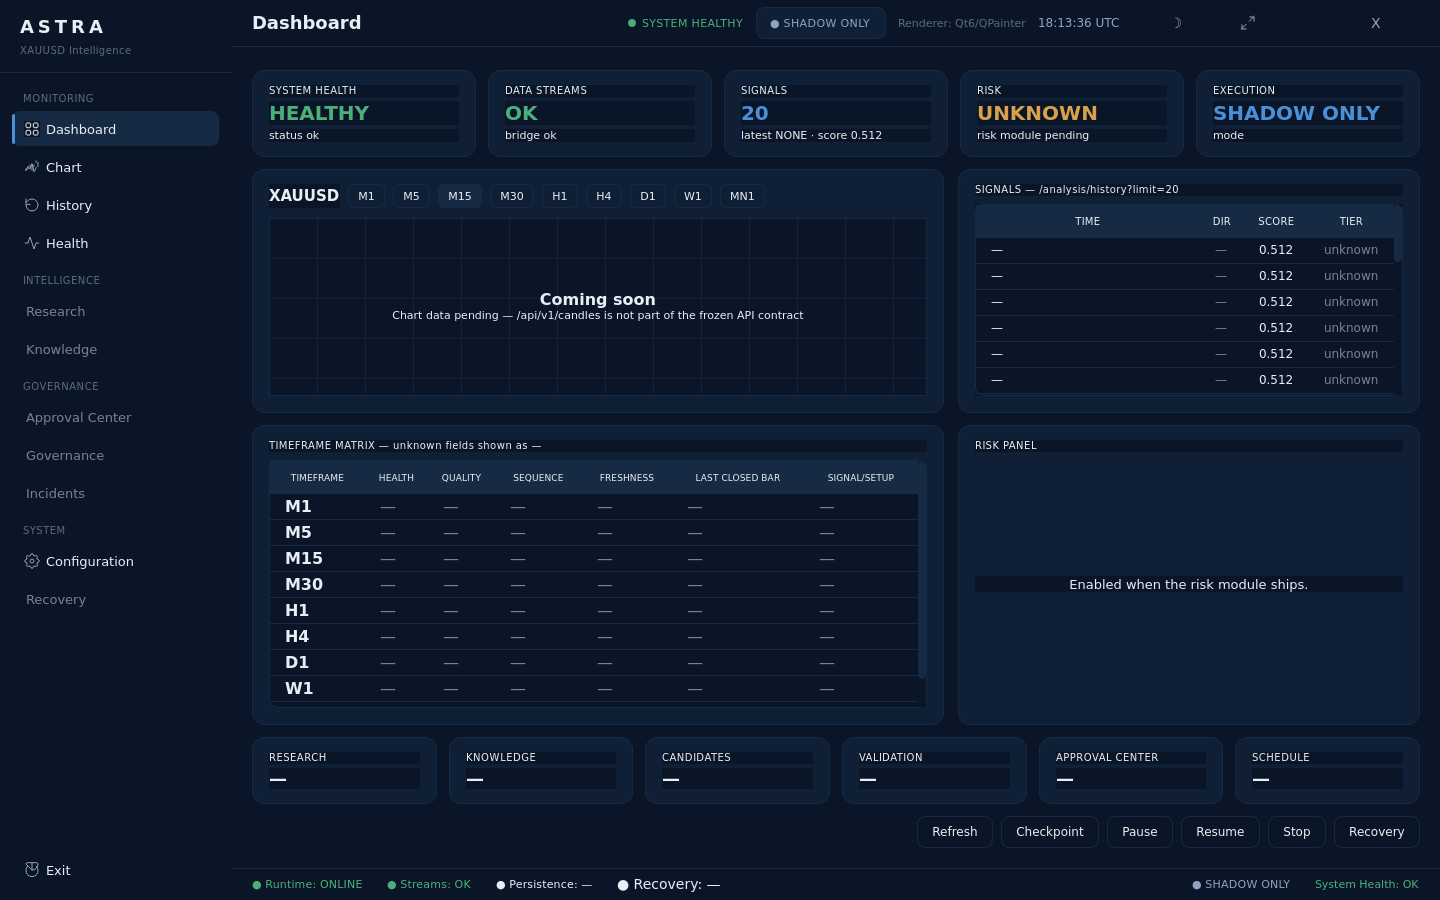
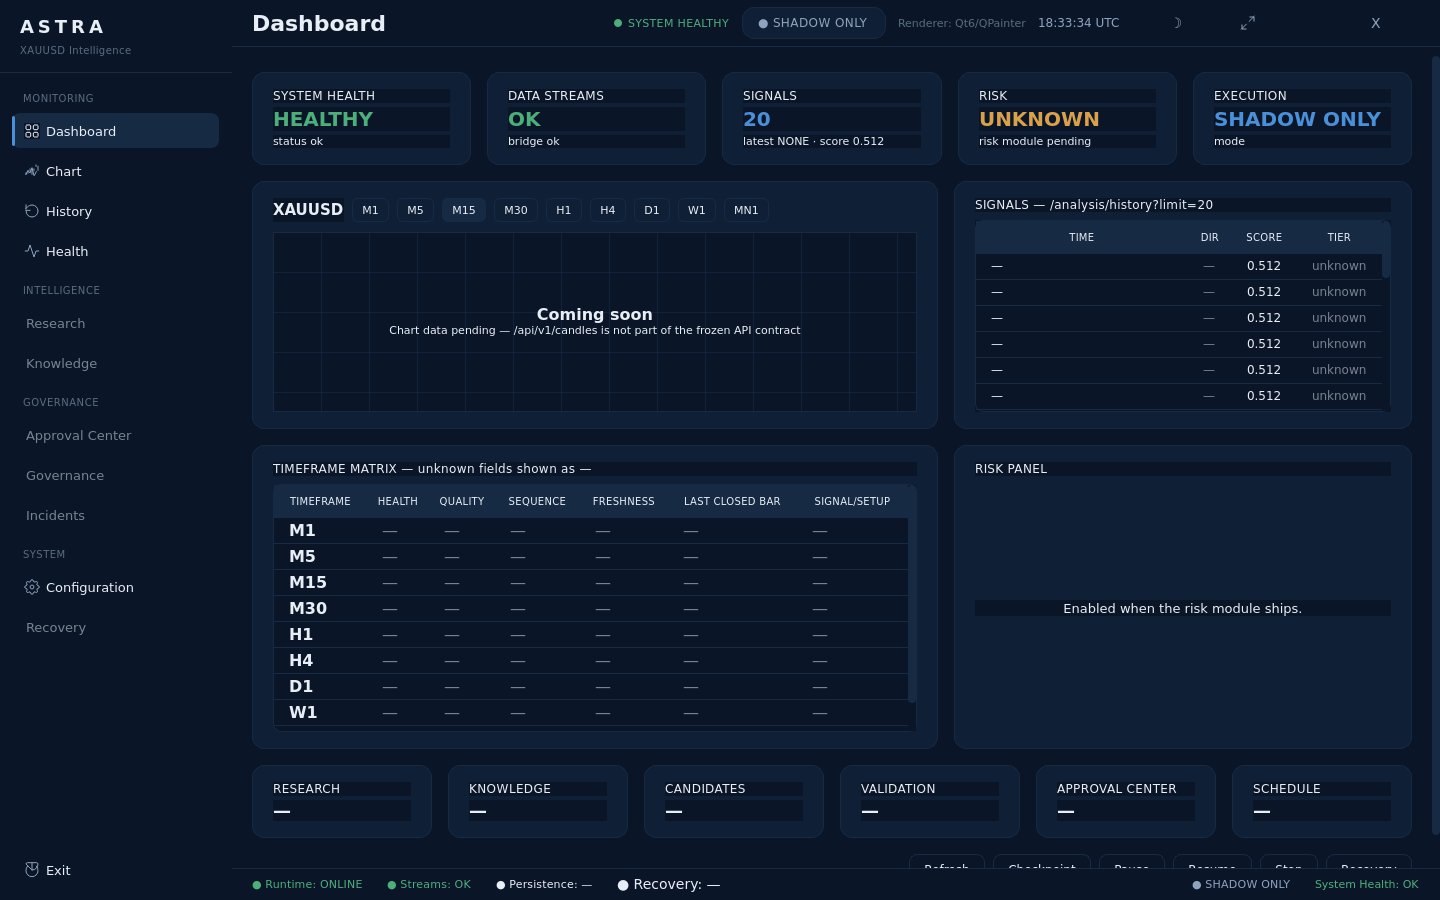
polish(qt): typography, spacing, hierarchy
Tighten KPI card caption (10px/0.08em -> 12px/0.05em), timeframe-matrix
header (9px -> 10px), page title (18px -> 22px), SHADOW ONLY chip
(11px -> 12px). Standardise card padding (20/16) and dashboard row gaps
(16px); nav item gap 2px -> 4px; chip/badge radius 8px -> 12px.
No hex, layout, feature or behaviour changes.

diff --git a/frontend/qt/src/pages/DashboardPage.cpp b/frontend/qt/src/pages/DashboardPage.cpp
@@ -113,7 +113,7 @@ QFrame* DashboardPage::makeCard(QWidget* parent, const QString& title) {
     card->setProperty("astraCard", true);
     card->setFrameStyle(QFrame::NoFrame);
     QVBoxLayout* lay = new QVBoxLayout(card);
-    lay->setContentsMargins(16, 14, 16, 14);
+    lay->setContentsMargins(20, 16, 20, 16);
     lay->setSpacing(4);
 
     QLabel* caption = new QLabel(card);
@@ -221,8 +221,8 @@ void DashboardPage::restyle() {
         if (auto* label = qobject_cast<QLabel*>(w)) {
             if (kind == "cardCaption") {
                 label->setStyleSheet(
-                    QString("QLabel { color: %1; font-size: 10px; font-weight: 500; "
-                            "letter-spacing: 0.08em; }").arg(textMuted.name()));
+                    QString("QLabel { color: %1; font-size: 12px; font-weight: 500; "
+                            "letter-spacing: 0.05em; }").arg(textMuted.name()));
             } else if (kind == "cardSub") {
                 label->setStyleSheet(
                     QString("QLabel { color: %1; font-size: 11px; }").arg(textMuted.name()));
@@ -273,8 +273,8 @@ void DashboardPage::restyle() {
                             "border-radius: 8px; font-size: 12px; }"
                             "QTableWidget::item { border-bottom: 1px solid %2; }"
                             "QHeaderView::section { background: %2; color: %3; border: none; "
-                            "padding: 6px 4px; font-size: 9px; font-weight: 500; "
-                            "letter-spacing: 0.02em; }")
+                            "padding: 6px 4px; font-size: 10px; font-weight: 500; "
+                            "letter-spacing: 0.05em; }")
                         .arg(surface.name(), border.name(), textMuted.name()));
             }
         }
@@ -330,12 +330,12 @@ void DashboardPage::setupLayout() {
     scroll->setWidget(page);
 
     QVBoxLayout* mainLayout = new QVBoxLayout(page);
-    mainLayout->setContentsMargins(20, 14, 20, 14);
-    mainLayout->setSpacing(12);
+    mainLayout->setContentsMargins(20, 16, 20, 16);
+    mainLayout->setSpacing(16);
 
     // ─────────────── ROW 1 — status cards ───────────────
     QHBoxLayout* row1 = new QHBoxLayout();
-    row1->setSpacing(12);
+    row1->setSpacing(16);
 
     QFrame* healthCard = makeCard(page, "SYSTEM HEALTH");
     mHealthValue = makeCardValue(healthCard);
@@ -380,7 +380,7 @@ void DashboardPage::setupLayout() {
 
     // ─────────────── ROW 2 — chart (60%) + signals (40%) ───────────────
     QHBoxLayout* row2 = new QHBoxLayout();
-    row2->setSpacing(14);
+    row2->setSpacing(16);
     row2->setStretch(0, 6);
     row2->setStretch(1, 4);
 
@@ -389,7 +389,7 @@ void DashboardPage::setupLayout() {
     chartCard->setProperty("astraCard", true);
     chartCard->setFrameStyle(QFrame::NoFrame);
     QVBoxLayout* chartLay = new QVBoxLayout(chartCard);
-    chartLay->setContentsMargins(16, 14, 16, 16);
+    chartLay->setContentsMargins(20, 16, 20, 16);
     chartLay->setSpacing(10);
 
     QHBoxLayout* chartHeader = new QHBoxLayout();
@@ -428,7 +428,7 @@ void DashboardPage::setupLayout() {
     histCard->setProperty("astraCard", true);
     histCard->setFrameStyle(QFrame::NoFrame);
     QVBoxLayout* histLay = new QVBoxLayout(histCard);
-    histLay->setContentsMargins(16, 14, 16, 16);
+    histLay->setContentsMargins(20, 16, 20, 16);
     histLay->setSpacing(8);
 
     QLabel* histCaption = new QLabel(histCard);
@@ -466,7 +466,7 @@ void DashboardPage::setupLayout() {
 
     // ─────────────── ROW 3 — timeframe matrix (60%) + risk panel (40%) ───
     QHBoxLayout* row3 = new QHBoxLayout();
-    row3->setSpacing(14);
+    row3->setSpacing(16);
     row3->setStretch(0, 6);
     row3->setStretch(1, 4);
 
@@ -474,7 +474,7 @@ void DashboardPage::setupLayout() {
     matrixCard->setProperty("astraCard", true);
     matrixCard->setFrameStyle(QFrame::NoFrame);
     QVBoxLayout* matrixLay = new QVBoxLayout(matrixCard);
-    matrixLay->setContentsMargins(16, 14, 16, 16);
+    matrixLay->setContentsMargins(20, 16, 20, 16);
     matrixLay->setSpacing(8);
 
     QLabel* matrixCaption = new QLabel(matrixCard);
@@ -570,7 +570,7 @@ void DashboardPage::setupLayout() {
     riskPanel->setProperty("astraCard", true);
     riskPanel->setFrameStyle(QFrame::NoFrame);
     QVBoxLayout* riskLay = new QVBoxLayout(riskPanel);
-    riskLay->setContentsMargins(16, 14, 16, 16);
+    riskLay->setContentsMargins(20, 16, 20, 16);
     riskLay->setSpacing(8);
 
     QLabel* riskCaption = new QLabel(riskPanel);
@@ -591,7 +591,7 @@ void DashboardPage::setupLayout() {
 
     // ─────────────── ROW 4 — 6 quick cards ───────────────
     QHBoxLayout* row4 = new QHBoxLayout();
-    row4->setSpacing(12);
+    row4->setSpacing(16);
     const char* quickLabels[] = {"Research", "Knowledge", "Candidates",
                                  "Validation", "Approval Center", "Schedule"};
     for (int i = 0; i < 6; ++i) {

diff --git a/frontend/qt/src/MainWindow.cpp b/frontend/qt/src/MainWindow.cpp
@@ -173,7 +173,7 @@ void MainWindow::setupSidebar() {
     QWidget* navArea = new QWidget(mSidebar);
     QVBoxLayout* navLayout = new QVBoxLayout(navArea);
     navLayout->setContentsMargins(12, 8, 12, 12);
-    navLayout->setSpacing(2);
+    navLayout->setSpacing(4);
 
     for (const NavGroup& group : mNavGroups) {
         QLabel* groupLabel = new QLabel(navArea);
@@ -707,15 +707,15 @@ void MainWindow::restyleChrome() {
     // Top bar
     if (mPageTitle) {
         mPageTitle->setStyleSheet(
-            QString("QLabel { color: %1; font-size: 18px; font-weight: 600; }")
+            QString("QLabel { color: %1; font-size: 22px; font-weight: 600; }")
                 .arg(textPrimary));
     }
     const QList<QLabel*> shadowChips = findChildren<QLabel*>("astraShadowChip");
     for (QLabel* l : shadowChips) {
         l->setStyleSheet(
-            QString("QLabel { color: %1; font-size: 11px; font-weight: 500; "
-                    "letter-spacing: 0.05em; border: 1px solid %2; border-radius: 8px; "
-                    "padding: 5px 10px; background: %3; }")
+            QString("QLabel { color: %1; font-size: 12px; font-weight: 500; "
+                    "letter-spacing: 0.05em; border: 1px solid %2; border-radius: 12px; "
+                    "padding: 4px 12px; background: %3; }")
                 .arg(textSecondary, border, surface));
     }
     const QList<QLabel*> rendererLabels = findChildren<QLabel*>("astraRendererLabel");

diff --git a/frontend/qt/src/pages/ComingSoonPage.cpp b/frontend/qt/src/pages/ComingSoonPage.cpp
@@ -60,11 +60,10 @@ void ComingSoonPage::restyle() {
     const QString border = pal.color(QPalette::Mid).name();
     const QString accent = pal.color(QPalette::Highlight).name();
 
-    mTitle->setStyleSheet(QString("QLabel { color: %1; font-size: 22px; font-weight: 600; "
-                                  "letter-spacing: 1px; }").arg(textPrimary));
-    mBadge->setStyleSheet(QString("QLabel { color: %1; font-size: 11px; font-weight: 500; "
-                                  "letter-spacing: 0.08em; border: 1px solid %2; "
-                                  "border-radius: 8px; padding: 4px 12px; background: %3; }")
+    mTitle->setStyleSheet(QString("QLabel { color: %1; font-size: 22px; font-weight: 600; }").arg(textPrimary));
+    mBadge->setStyleSheet(QString("QLabel { color: %1; font-size: 12px; font-weight: 500; "
+                                  "letter-spacing: 0.05em; border: 1px solid %2; "
+                                  "border-radius: 12px; padding: 4px 12px; background: %3; }")
                               .arg(accent, border, surface));
     mBody->setStyleSheet(QString("QLabel { color: %1; font-size: 14px; }").arg(textSecondary));
 }

diff --git a/docs/frontend/DESIGN_REVIEW.md b/docs/frontend/DESIGN_REVIEW.md
@@ -122,3 +122,34 @@ Please confirm:
 2. Is anything missing?
 3. Any color / spacing adjustments?
 4. Should the chart placeholder be more prominent?
+
+## Polish pass
+
+A follow-up pass tightened typography, spacing and hierarchy without changing
+the layout structure, features or any palette hex value.
+
+Typography
+- KPI card caption: 10px / 0.08em → 12px / 0.05em, so the label no longer
+  reads as incidental micro-text. (SCORE ≠ PROBABILITY and other semantic
+  labels are unaffected.)
+- Timeframe-matrix header: 9px / 0.02em → 10px / 0.05em for legibility at
+  1440×900.
+- Page title in the top bar set to a consistent 22px / 600 (it was 18px),
+  matching the ComingSoon page title and giving a clear page > section > card
+  hierarchy.
+- SHADOW ONLY chip text 11px → 12px.
+
+Spacing
+- KPI card padding standardised to 20 / 16 (was 16 / 14).
+- Dashboard card grids: row gaps 12–14px → 16px; page padding 14px → 16px.
+- Content-card padding (chart, signals, matrix, risk) standardised to
+  20 / 16.
+- Sidebar nav item gap 2px → 4px.
+
+Chips / badges
+- SHADOW ONLY chip and ComingSoon badge: radius 8px → 12px to match the
+  editorial chip language.
+
+Unchanged: all colors (palette fixed), layout structure, behaviour, and every
+non-visual feature.
+
